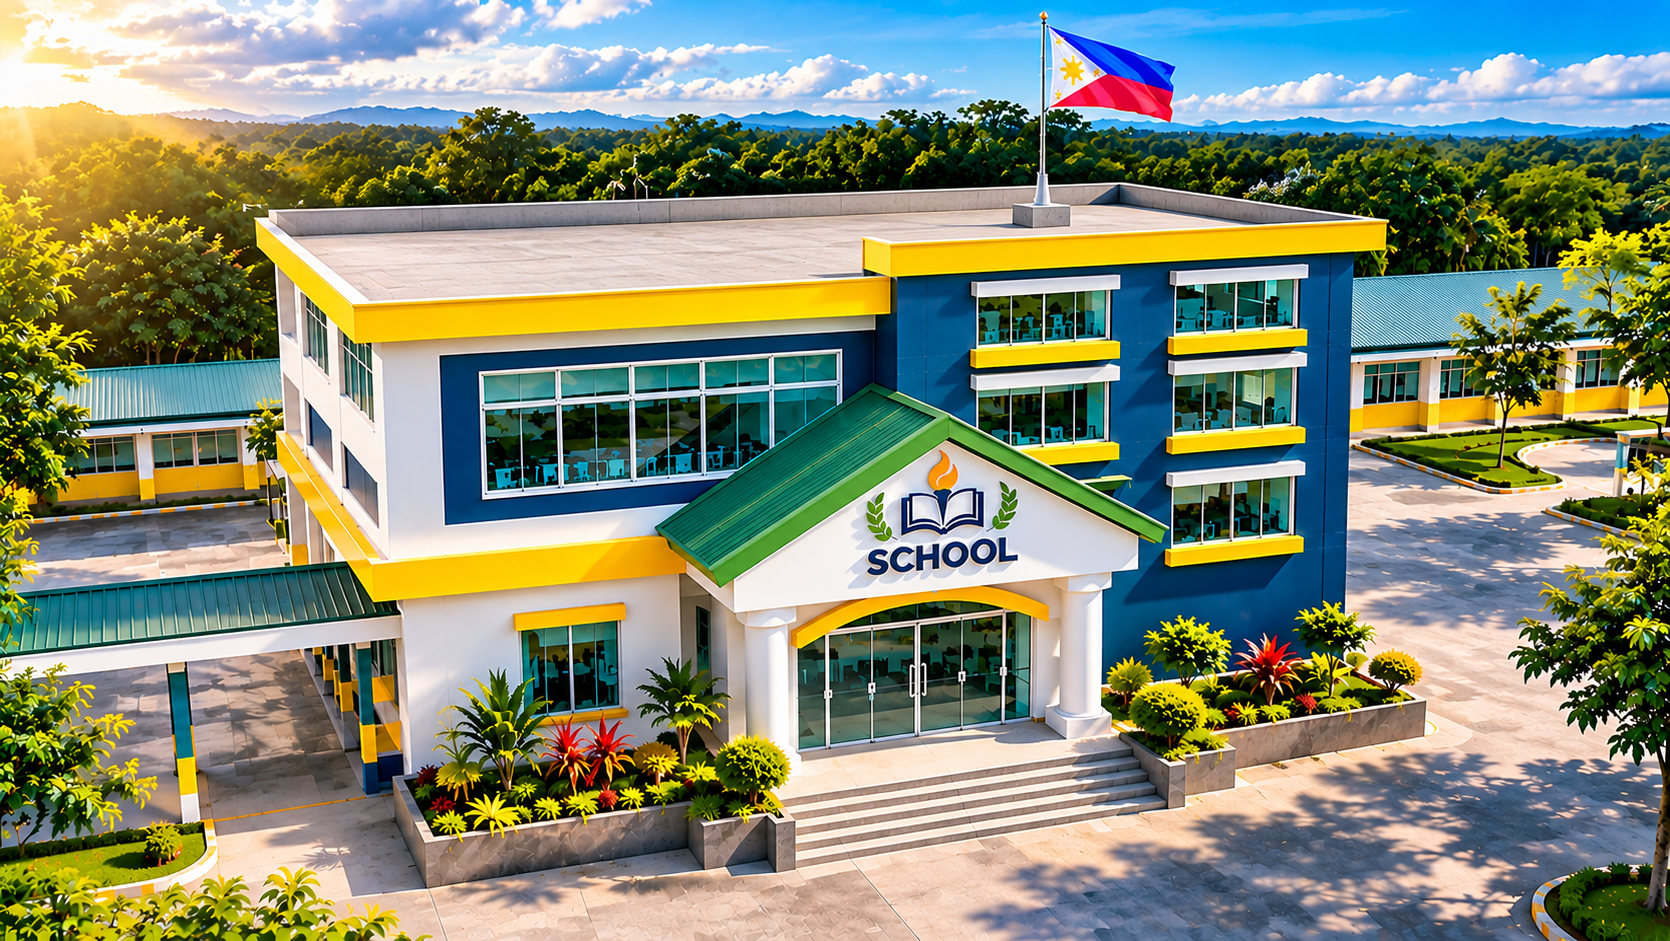
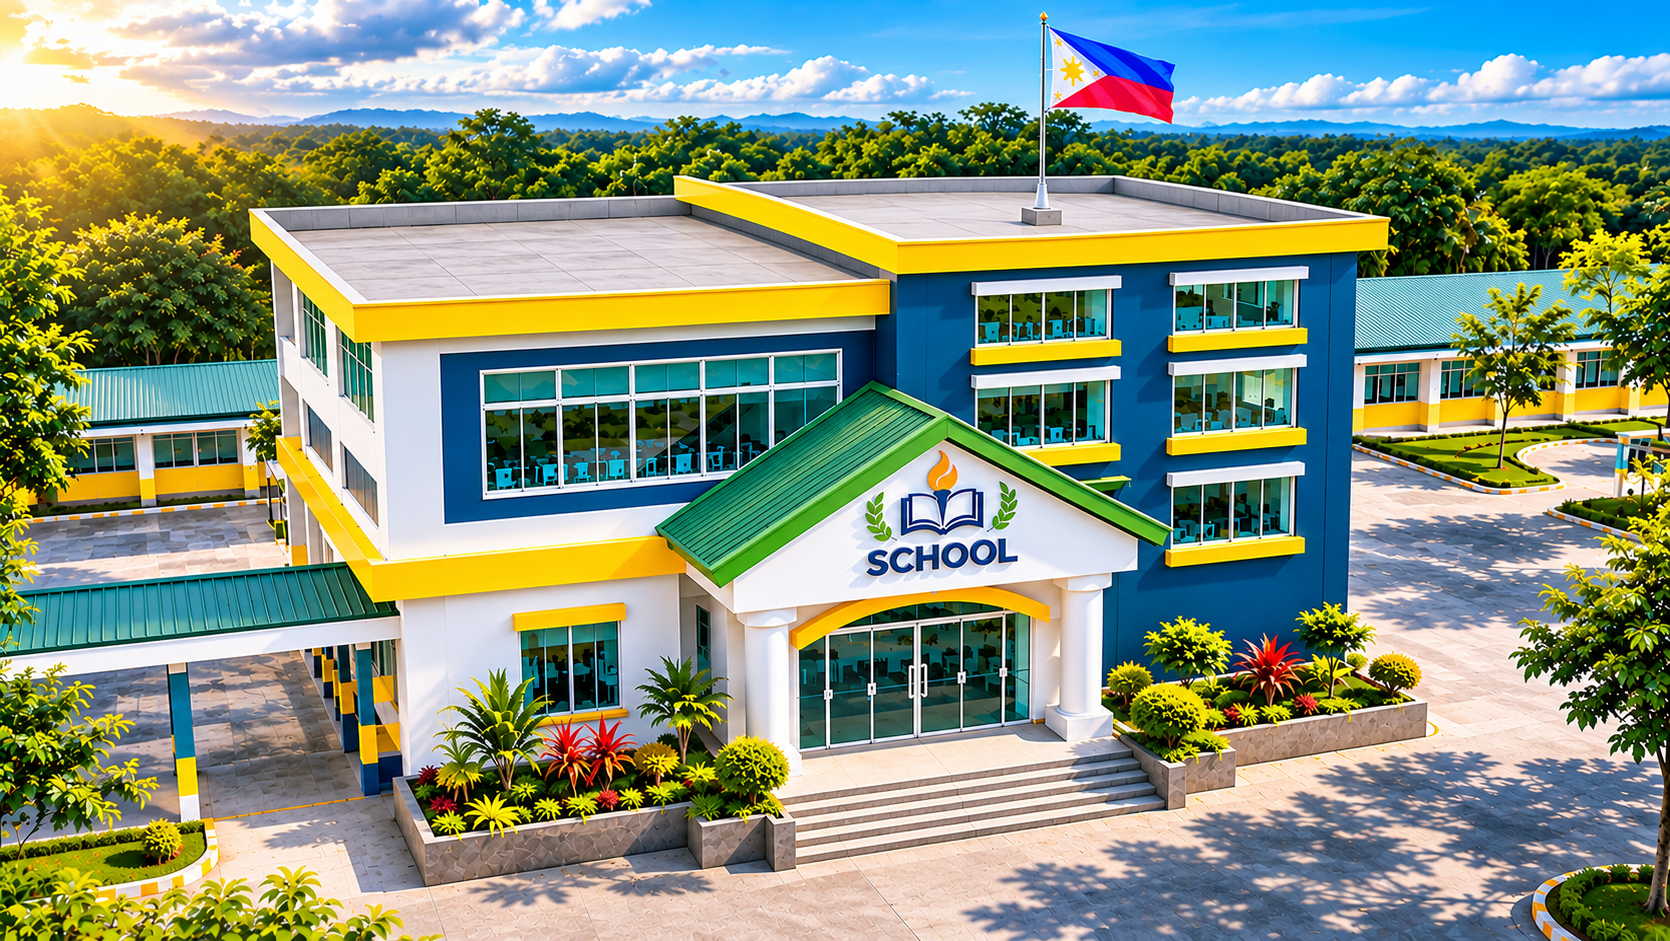
feat: update login panel background animation duration and stylesheet versioning

diff --git a/SchoolPropertyInventorySystem/css/spis-modules.css b/SchoolPropertyInventorySystem/css/spis-modules.css
@@ -3770,7 +3770,7 @@ body[data-theme="dark"] .top-nav-btn.active svg {
 .spis-login-layer.hidden { display: none; }
 html:has(#googleLoginGate:not(.hidden)), body:has(#googleLoginGate:not(.hidden)) { overflow: hidden !important; }
 .spis-login-panel { position: relative; width: 100%; height: 100vh; height: 100dvh; min-height: 0; display: grid; grid-template-columns: minmax(0, 2.92fr) minmax(0, 1fr); overflow: hidden; border: 0; border-radius: 0; background: rgba(255,255,255,.98); box-shadow: none; }
-.spis-login-art { position: relative; display: flex; min-height: 0; align-items: flex-end; justify-content: center; overflow: hidden; padding: clamp(2rem, 5vw, 5rem); background: #00335e url("../images/spis_background.png") 35% 50% / cover no-repeat; animation: spis-login-bg-pan 36s ease-in-out infinite alternate; }
+.spis-login-art { position: relative; display: flex; min-height: 0; align-items: flex-end; justify-content: center; overflow: hidden; padding: clamp(2rem, 5vw, 5rem); background: #00335e url("../images/spis_background.png") 35% 50% / cover no-repeat; animation: spis-login-bg-pan 43s ease-in-out infinite alternate; }
 .spis-login-art::before { display: none; }
 .spis-login-art::after { position: absolute; z-index: 1; inset: 0; background: linear-gradient(0deg, rgba(0, 26, 48, .82) 0%, rgba(0, 26, 48, .35) 38%, transparent 75%); content: ""; pointer-events: none; }
 .spis-login-copy { position: absolute; z-index: 2; top: auto; right: 2rem; bottom: clamp(4rem, 10vh, 8rem); left: clamp(2rem, 6vw, 5rem); }

diff --git a/SchoolPropertyInventorySystem/homepage.html b/SchoolPropertyInventorySystem/homepage.html
@@ -122,7 +122,7 @@
       box-shadow: 0 8px 16px -4px rgba(15, 23, 42, 0.08), 0 3px 6px -2px rgba(15, 23, 42, 0.04);
     }
   </style>
-  <link rel="stylesheet" href="css/spis-modules.css?v=20261118_split_auth_pan">
+  <link rel="stylesheet" href="css/spis-modules.css?v=20261118_split_auth_pan43">
   <!-- Font Awesome – used by Personnel Accountability module -->
   <link rel="stylesheet" href="https://cdnjs.cloudflare.com/ajax/libs/font-awesome/6.5.2/css/all.min.css" />
 </head>

diff --git a/SchoolPropertyInventorySystem/index.html b/SchoolPropertyInventorySystem/index.html
@@ -122,7 +122,7 @@
       box-shadow: 0 8px 16px -4px rgba(15, 23, 42, 0.08), 0 3px 6px -2px rgba(15, 23, 42, 0.04);
     }
   </style>
-  <link rel="stylesheet" href="css/spis-modules.css?v=20261118_split_auth_pan">
+  <link rel="stylesheet" href="css/spis-modules.css?v=20261118_split_auth_pan43">
   <!-- Font Awesome – used by Personnel Accountability module -->
   <link rel="stylesheet" href="https://cdnjs.cloudflare.com/ajax/libs/font-awesome/6.5.2/css/all.min.css" />
 </head>
